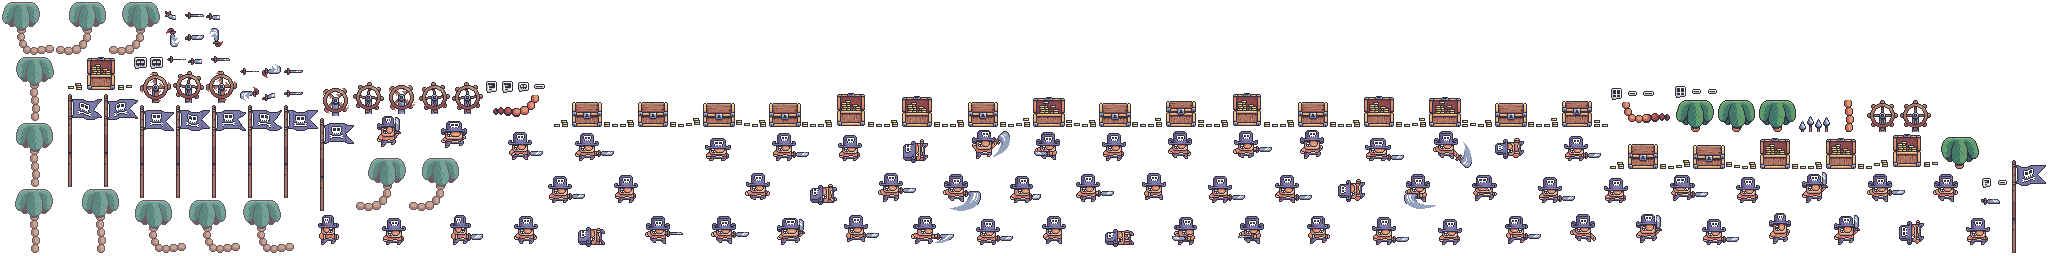
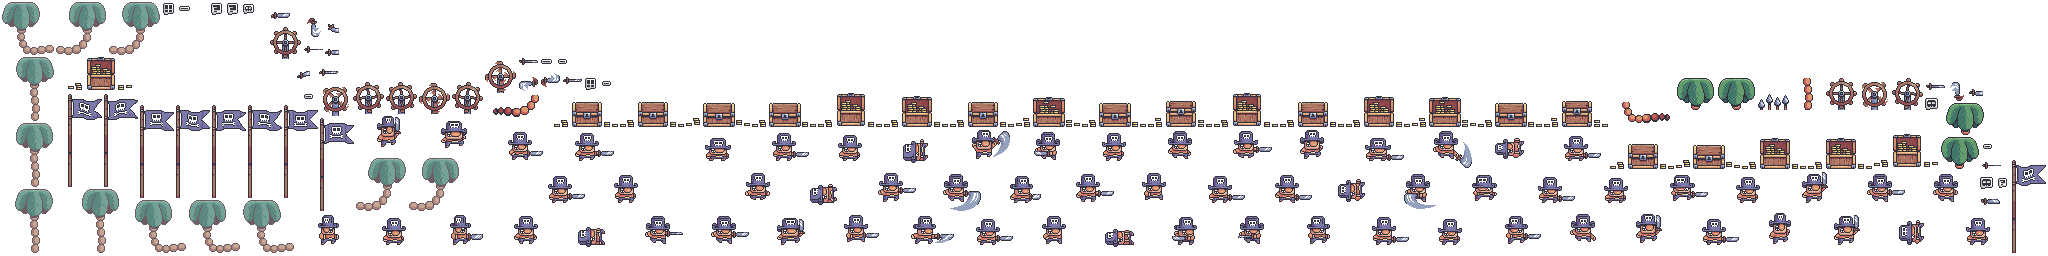
particle effect starts

diff --git a/core/src/main/kotlin/com/libgdx/treasurehunter/ecs/systems/AttackMetaSystem.kt b/core/src/main/kotlin/com/libgdx/treasurehunter/ecs/systems/AttackMetaSystem.kt
@@ -4,6 +4,7 @@ import com.badlogic.gdx.math.Vector2
 import com.badlogic.gdx.physics.box2d.Body
 import com.badlogic.gdx.physics.box2d.ChainShape
 import com.badlogic.gdx.physics.box2d.FixtureDef
+import com.badlogic.gdx.physics.box2d.Shape
 import com.github.quillraven.fleks.Entity
 import com.github.quillraven.fleks.IteratingSystem
 import com.github.quillraven.fleks.World.Companion.family
@@ -15,12 +16,11 @@ import com.libgdx.treasurehunter.ecs.components.Graphic
 import com.libgdx.treasurehunter.ecs.components.Move
 import com.libgdx.treasurehunter.ecs.components.Physic
 import com.libgdx.treasurehunter.ecs.components.State
-import com.libgdx.treasurehunter.ecs.systems.DebugSystem.Companion.JUMP_DEBUG_RECT
 import com.libgdx.treasurehunter.event.GameEvent
 import com.libgdx.treasurehunter.event.GameEventDispatcher
 import com.libgdx.treasurehunter.utils.mirrorVertices
-import com.libgdx.treasurehunter.utils.playerMeleeAttackVertices
-import com.libgdx.treasurehunter.utils.playerRangeAttackVertices
+import com.libgdx.treasurehunter.utils.playerSwordMeleeAttackVertices
+import com.libgdx.treasurehunter.utils.playerSwordRangedAttackVertices
 import com.libgdx.treasurehunter.utils.plus
 import ktx.math.vec2
 
@@ -87,26 +87,45 @@ class AttackMetaSystem : IteratingSystem(
         body.applyLinearImpulse(Vector2(7f * multiplayer,0f)  ,body.position, true)
     }
 
-    companion object{
-        fun createAttackFixture(keyFrameIndex : Int,attackBody : Body,attackType: AttackType,flipX : Boolean = false,isMelee: Boolean ,isSensor : Boolean){
-            attackBody.fixtureList.forEach {
-                attackBody.destroyFixture(it)
-            }
-            val fixtureVertices =if (isMelee) playerMeleeAttackVertices[attackType]?.get(keyFrameIndex) else playerRangeAttackVertices
-            fixtureVertices?:return
-            val mirroredVertices = if (flipX) fixtureVertices.mirrorVertices() else fixtureVertices
-            val attackFixtureDef = FixtureDef().apply {
-                this.isSensor = isSensor
-                density = 0f
-                friction = 0f
-                restitution = 0f
-                shape = ChainShape().apply {
-                    createLoop(mirroredVertices)
-                }
-            }
-            attackBody.createFixture(attackFixtureDef).apply {
-                userData = if (isMelee) "meleeAttackFixture" else "rangeAttackFixture"
-            }
+    fun createAttackFixture(keyFrameIndex : Int,attackBody : Body,attackType: AttackType,flipX : Boolean = false,isMelee: Boolean ,isSensor : Boolean){
+        attackBody.fixtureList.forEach {
+            attackBody.destroyFixture(it)
+        }
+        val shape = if (isMelee) getMeleeAttackShape(attackType,keyFrameIndex,flipX) else getRangedAttackShape(flipX)
+        shape?:return
+        val attackFixtureDef = FixtureDef().apply {
+            this.isSensor = isSensor
+            density = 0f
+            restitution = 0f
+            this.shape = shape
+        }
+        attackBody.createFixture(attackFixtureDef).apply {
+            userData = if (isMelee) "meleeAttackFixture" else "rangeAttackFixture"
+        }
+    }
+
+    private fun getMeleeAttackShape(attackType: AttackType,keyFrameIndex: Int,flipX: Boolean) : Shape? {
+        val fixtureVertices =playerSwordMeleeAttackVertices[attackType]?.get(keyFrameIndex)
+        fixtureVertices?:return null
+        val mirroredVertices = if (flipX) fixtureVertices.mirrorVertices() else fixtureVertices
+        return ChainShape().apply {
+            createLoop(mirroredVertices)
+        }
+    }
+
+    private fun getRangedAttackShape(flipX: Boolean): ChainShape {
+        val originalShape = playerSwordRangedAttackVertices!!.first().fixtureDef.shape as ChainShape
+        val vertexCount = originalShape.vertexCount
+        val vertices = Array(vertexCount) { Vector2() }
+
+        for (i in 0 until vertexCount) {
+            val vertex = Vector2()
+            originalShape.getVertex(i, vertex)
+            vertices[i] = if (flipX) Vector2(-vertex.x + 0.65f, vertex.y) else Vector2(vertex.x , vertex.y)
+        }
+
+        return ChainShape().apply {
+            createChain(vertices)
         }
     }
 

diff --git a/core/src/main/kotlin/com/libgdx/treasurehunter/ecs/systems/PhysicSystem.kt b/core/src/main/kotlin/com/libgdx/treasurehunter/ecs/systems/PhysicSystem.kt
@@ -80,13 +80,16 @@ class PhysicSystem (
 
     override fun onAlphaEntity(entity: Entity, alpha: Float) {
         val (sprite) = entity[Graphic]
-        val (body,previousPosition) = entity[Physic]
+        val physic = entity[Physic]
+        val (body,previousPosition) = physic
         val (prevX,prevY) = previousPosition
         val (bodyX,bodyY) = body.position
+
         sprite.setPosition(
             MathUtils.lerp(prevX,bodyX,alpha),
             MathUtils.lerp(prevY,bodyY,alpha)
         )
+
     }
 
     private val Fixture.entity : Entity?
@@ -144,7 +147,7 @@ class PhysicSystem (
         GameEventDispatcher.fireEvent(GameEvent.CollectableItemEvent(collectableEntity,playerEntity))
     }
 
-    private fun handleSwordAndWallCollision(activeAttackEntity : Entity){
+    private fun handleSwordAndWallCollision(activeAttackEntity: Entity) {
         val attackMeta = activeAttackEntity[AttackMeta]
         attackMeta.collidedWithWall = true
     }
@@ -157,7 +160,8 @@ class PhysicSystem (
     }
 
     private fun isCollectableCollision(entityA: Entity,entityB: Entity,fixtureB:Fixture) : Boolean{
-        return  entityA has EntityTag.COLLECTABLE && entityB has EntityTag.PLAYER && fixtureB.isSensor
+        val collectable =  entityA has EntityTag.COLLECTABLE && entityB has EntityTag.PLAYER && fixtureB.isSensor
+        return collectable
     }
 
     private fun isSwordAndWallCollision(entityA: Entity?,fixtureA : Fixture,fixtureB:Fixture) : Boolean{
@@ -172,6 +176,7 @@ class PhysicSystem (
         val fixtureB = contact.fixtureB
         val entityA = fixtureA.entity
         val entityB = fixtureB.entity
+
         if (entityA == null || entityB == null) {
             when{
                 isSwordAndWallCollision(entityA,fixtureA,fixtureB) -> handleSwordAndWallCollision(entityA!!)
@@ -181,12 +186,12 @@ class PhysicSystem (
             return
         }
         when {
-            isDamageCollision(entityA,entityB,fixtureB) -> handleDamageBeginContact(entityA,entityB)
-            isDamageCollision(entityB,entityA,fixtureA) -> handleDamageBeginContact(entityB,entityA)
             isCollectableCollision(entityA,entityB,fixtureB) -> handleCollectableBeginContact(entityA,entityB)
             isCollectableCollision(entityB,entityA,fixtureA) -> handleCollectableBeginContact(entityB,entityA)
             isSwordAndWallCollision(entityA,fixtureA,fixtureB) -> handleSwordAndWallCollision(entityA)
             isSwordAndWallCollision(entityB,fixtureB,fixtureA) -> handleSwordAndWallCollision(entityB)
+            isDamageCollision(entityA,entityB,fixtureB) -> handleDamageBeginContact(entityA,entityB)
+            isDamageCollision(entityB,entityA,fixtureA) -> handleDamageBeginContact(entityB,entityA)
         }
 
     }

diff --git a/core/src/main/kotlin/com/libgdx/treasurehunter/tiled/TiledMapService.kt b/core/src/main/kotlin/com/libgdx/treasurehunter/tiled/TiledMapService.kt
@@ -2,6 +2,7 @@ package com.libgdx.treasurehunter.tiled
 
 import com.badlogic.gdx.Gdx
 import com.badlogic.gdx.maps.MapObject
+import com.badlogic.gdx.maps.MapObjects
 import com.badlogic.gdx.maps.objects.EllipseMapObject
 import com.badlogic.gdx.maps.objects.PolygonMapObject
 import com.badlogic.gdx.maps.objects.PolylineMapObject
@@ -128,7 +129,7 @@ class TiledMapService (
             body.userData = it
             it += Physic(body)
             configureEntityGraphic(it,tile,body.position,gameObject, assetHelper,world,rotation)
-            configureEntityTags(it,mapObject,tile)
+            configureEntityTags(it,mapObject,tile,assetHelper)
             configureMove(it,tile)
             configureJump(it,tile)
             configureState(it,tile,world,physicWorld,assetHelper)
@@ -141,7 +142,7 @@ class TiledMapService (
 
     private fun spawnStaticObject(mapObject: MapObject,x: Int,y : Int){
         val body = physicWorld.createBody(StaticBody,vec2(x.toFloat(),y.toFloat()))
-        val fixtureDefUserData = fixtureDefinitionOf(mapObject)
+        val fixtureDefUserData = fixtureDefinitionOf(mapObject,true)
         body.createFixtures(listOf(fixtureDefUserData))
     }
 
@@ -149,7 +150,7 @@ class TiledMapService (
         world.entity {
             val position = vec2(mapObject.x * UNIT_SCALE , mapObject.y * UNIT_SCALE)
             configureEntityGraphic(it,tile,position,gameObject, assetHelper,world,0f)
-            configureEntityTags(it,mapObject,tile)
+            configureEntityTags(it,mapObject,tile,assetHelper)
         }
     }
     companion object{

diff --git a/core/src/main/kotlin/com/libgdx/treasurehunter/ai/SwordState.kt b/core/src/main/kotlin/com/libgdx/treasurehunter/ai/SwordState.kt
@@ -32,7 +32,6 @@ enum class SwordState : EntityState{
         }
         override fun update(entity: AiEntity) {
             respawnTimer -= Gdx.graphics.deltaTime
-            println(respawnTimer)
             if (respawnTimer <= 0f){
                 entity.state(IDLE)
                 entity.alpha = 1f
@@ -51,19 +50,23 @@ enum class SwordState : EntityState{
             spinningDuration -= Gdx.graphics.deltaTime
             when{
                 entity.collidedWithWall -> entity.state(EMBEDDED)
-                spinningDuration <= 0f -> entity.attackDestroyCooldown = 0f
+                spinningDuration <= 0f -> {
+                    entity.attackDestroyCooldown = 0f
+                    entity.remove()
+                }
             }
         }
     },
     EMBEDDED{
         override fun enter(entity: AiEntity) {
+            entity.addCollectable()
             entity.animation(AnimationType.EMBEDDED)
         }
         override fun update(entity: AiEntity) {
             entity.attackDestroyCooldown -= entity.world.deltaTime
             when{
                 entity.attackDestroyCooldown <= 1f && entity.hasNoBlinkComp -> entity.addBlinkComp(1f,0.075f)
-                entity.attackDestroyCooldown <= 0f -> entity.remove()
+                entity.attackDestroyCooldown <= 0f || entity.isCollected -> entity.remove()
             }
         }
     }

diff --git a/core/src/main/kotlin/com/libgdx/treasurehunter/tiled/TiledEntityComponent.kt b/core/src/main/kotlin/com/libgdx/treasurehunter/tiled/TiledEntityComponent.kt
@@ -32,6 +32,7 @@ import com.libgdx.treasurehunter.ecs.components.AttackItem
 import com.libgdx.treasurehunter.ecs.components.Collectable
 import com.libgdx.treasurehunter.ecs.components.Damage
 import com.libgdx.treasurehunter.ecs.components.Life
+import com.libgdx.treasurehunter.ecs.components.Particle
 import com.libgdx.treasurehunter.ecs.components.Physic
 import ktx.app.gdxError
 import ktx.math.vec2
@@ -117,6 +118,7 @@ fun EntityCreateContext.configureEntityTags(
     entity: Entity,
     mapObject: TiledMapTileMapObject,
     tile: TiledMapTile,
+    assetHelper: AssetHelper
 ){
     val entityTags = mapObject.propertyOrNull<String>("entityTags")?:tile.property("entityTags","")
     if (entityTags.isNotBlank()){
@@ -126,6 +128,13 @@ fun EntityCreateContext.configureEntityTags(
     if (entity has EntityTag.COLLECTABLE){
         val gameObject = GameObject.valueOf(tile.propertyOrNull<String>("gameObject")?: gdxError("gameObject is null $tile"))
         entity += Collectable(gameObject)
+    }
+    if (entity has EntityTag.PLAYER){
+        entity += Particle(
+            sprite(GameObject.DUST_PARTICLES, AnimationType.RUN,entity[Physic].body.position,assetHelper,0f),
+            vec2(),
+            entity
+        )
     }
 
 }

diff --git a/core/src/main/kotlin/com/libgdx/treasurehunter/ecs/systems/RenderSystem.kt b/core/src/main/kotlin/com/libgdx/treasurehunter/ecs/systems/RenderSystem.kt
@@ -14,6 +14,7 @@ import com.libgdx.treasurehunter.ecs.components.AttackMeta
 import com.libgdx.treasurehunter.ecs.components.EntityTag
 import com.libgdx.treasurehunter.ecs.components.Flash
 import com.libgdx.treasurehunter.ecs.components.Graphic
+import com.libgdx.treasurehunter.ecs.components.Particle
 import com.libgdx.treasurehunter.event.GameEvent
 import com.libgdx.treasurehunter.event.GameEventListener
 import com.libgdx.treasurehunter.utils.Constants
@@ -67,12 +68,14 @@ class RenderSystem (
         sort(entityComparator)
         forEach { entity ->
             val sprite = entity[Graphic].sprite
+            val particleSprite = entity.getOrNull(Particle)?.sprite
             sprite.color = currentColorSettings.entityColor.copy(alpha = sprite.color.a)
             val flashCmp = entity.getOrNull(Flash)
             if (flashCmp != null && flashCmp.doFlash) {
                 sprite.color = flashCmp.color
             }
-            entity[Graphic].sprite.draw(spriteBatch)
+            sprite.draw(spriteBatch)
+            particleSprite?.draw(spriteBatch)
         }
     }
 

diff --git a/core/src/main/kotlin/com/libgdx/treasurehunter/utils/Box2dUtils.kt b/core/src/main/kotlin/com/libgdx/treasurehunter/utils/Box2dUtils.kt
@@ -46,7 +46,7 @@ fun Body.createFixtures(fixtureDefUserData: List<FixtureDefUserData>) {
 
 data class FixtureDefUserData(val fixtureDef: FixtureDef, val userData : String)
 
-fun fixtureDefinitionOf(mapObject: MapObject): FixtureDefUserData {
+fun fixtureDefinitionOf(mapObject: MapObject,isGround : Boolean = false): FixtureDefUserData {
     val fixtureDef = when(mapObject){
         is RectangleMapObject -> rectangleFixtureDef(mapObject)
         is EllipseMapObject -> ellipseFixtureDef(mapObject)
@@ -55,8 +55,9 @@ fun fixtureDefinitionOf(mapObject: MapObject): FixtureDefUserData {
         else -> gdxError("Unsupported mapObject $mapObject")
     }
     val userData = mapObject.property("userData","")
+    println(userData)
     fixtureDef.apply {
-        friction = mapObject.property("friction",0f)
+        friction = mapObject.property("friction",if (isGround) 0.2f else 0f)
         restitution = mapObject.property("restitution",0f)
         isSensor = mapObject.property("isSensor",false)
         density = mapObject.property("density",0f)

diff --git a/assets/map/objects.tsx b/assets/map/objects.tsx
@@ -1,5 +1,5 @@
 <?xml version="1.0" encoding="UTF-8"?>
-<tileset version="1.10" tiledversion="1.10.2" name="objects" tilewidth="64" tileheight="93" tilecount="14" columns="0">
+<tileset version="1.10" tiledversion="1.10.2" name="objects" tilewidth="64" tileheight="93" tilecount="15" columns="0">
  <grid orientation="orthogonal" width="1" height="1"/>
  <tile id="0">
   <properties>
@@ -240,6 +240,17 @@
      <property name="userData" value="bodyFixture"/>
     </properties>
     <polygon points="0,0 0,11 11,11 11,0"/>
+   </object>
+  </objectgroup>
+ </tile>
+ <tile id="36">
+  <properties>
+   <property name="gameObject" propertytype="GameObject" value="SWORD_EMBEDDED"/>
+  </properties>
+  <image width="20" height="20" source="../graphics/sword_embedded.png"/>
+  <objectgroup draworder="index" id="2">
+   <object id="1" x="0" y="14">
+    <polygon points="0,0 3,0 3,2 5,2 5,1 6,1 6,0 7,0 7,1 14,1 14,-4 7,-4 7,-3 6,-3 6,-4 5,-4 5,-5 3,-5 3,-3 1,-3 1,-2 0,-2"/>
    </object>
   </objectgroup>
  </tile>

diff --git a/core/src/main/kotlin/com/libgdx/treasurehunter/game/screens/GameScreen.kt b/core/src/main/kotlin/com/libgdx/treasurehunter/game/screens/GameScreen.kt
@@ -18,6 +18,7 @@ import com.libgdx.treasurehunter.ecs.systems.InvulnarableSystem
 import com.libgdx.treasurehunter.ecs.systems.JumpSystem
 import com.libgdx.treasurehunter.ecs.systems.MarkSystem
 import com.libgdx.treasurehunter.ecs.systems.MoveSystem
+import com.libgdx.treasurehunter.ecs.systems.ParticleSystem
 import com.libgdx.treasurehunter.ecs.systems.PhysicSystem
 import com.libgdx.treasurehunter.ecs.systems.RenderSystem
 import com.libgdx.treasurehunter.ecs.systems.StateSystem
@@ -63,6 +64,7 @@ class GameScreen(private val spriteBatch: SpriteBatch,assetHelper: AssetHelper,p
             add(AttackMetaSystem())
             add(JumpSystem())
             add(PhysicSystem())
+            add(ParticleSystem())
             add(MarkSystem())
             add(AnimationSystem())
             add(CameraSystem())

diff --git a/core/src/main/kotlin/com/libgdx/treasurehunter/utils/AttackFixtureUtils.kt b/core/src/main/kotlin/com/libgdx/treasurehunter/utils/AttackFixtureUtils.kt
@@ -1,8 +1,9 @@
 package com.libgdx.treasurehunter.utils
 
 import com.libgdx.treasurehunter.ecs.components.AttackType
+import com.libgdx.treasurehunter.utils.Constants.OBJECT_FIXTURES
 
-val playerMeleeAttackVertices: Map<AttackType, Map<Int,FloatArray> > = mapOf(
+val playerSwordMeleeAttackVertices: Map<AttackType, Map<Int,FloatArray> > = mapOf(
 
     AttackType.ATTACK_1 to mapOf(
         0 to floatArrayOf(
@@ -53,12 +54,7 @@ val playerMeleeAttackVertices: Map<AttackType, Map<Int,FloatArray> > = mapOf(
     )
 )
 
-val playerRangeAttackVertices = floatArrayOf(
-    0.25f,0.25f,
-    0.25f,0.5f,
-    0.65f,0.5f,
-    0.5f,0.25f,
-)
+val playerSwordRangedAttackVertices = OBJECT_FIXTURES[GameObject.SWORD_EMBEDDED]
 
 fun FloatArray.mirrorVertices(): FloatArray {
     val mirroredVertices = FloatArray(this.size)

diff --git a/core/src/main/kotlin/com/libgdx/treasurehunter/ecs/systems/ParticleSystem.kt b/core/src/main/kotlin/com/libgdx/treasurehunter/ecs/systems/ParticleSystem.kt
@@ -1,0 +1,18 @@
+package com.libgdx.treasurehunter.ecs.systems
+
+import com.github.quillraven.fleks.Entity
+import com.github.quillraven.fleks.IteratingSystem
+import com.github.quillraven.fleks.World.Companion.family
+import com.libgdx.treasurehunter.ecs.components.Particle
+import com.libgdx.treasurehunter.ecs.components.Physic
+
+class ParticleSystem : IteratingSystem(
+    family = family{all(Particle)}
+){
+
+    override fun onTickEntity(entity: Entity) {
+        val particle = entity[Particle]
+        val physic = entity[Physic]
+        particle.sprite.setPosition(physic.body.position.x,physic.body.position.y)
+    }
+}

diff --git a/core/src/main/kotlin/com/libgdx/treasurehunter/ecs/components/Particle.kt b/core/src/main/kotlin/com/libgdx/treasurehunter/ecs/components/Particle.kt
@@ -1,0 +1,19 @@
+package com.libgdx.treasurehunter.ecs.components
+
+import com.badlogic.gdx.graphics.g2d.Sprite
+import com.badlogic.gdx.math.Vector2
+import com.github.quillraven.fleks.Component
+import com.github.quillraven.fleks.ComponentType
+import com.github.quillraven.fleks.Entity
+
+data class Particle(
+    val sprite : Sprite,
+    val offset : Vector2,
+    val owner : Entity
+) : Component <Particle> {
+
+    override fun type() = Particle
+
+    companion object : ComponentType<Particle>()
+
+}
